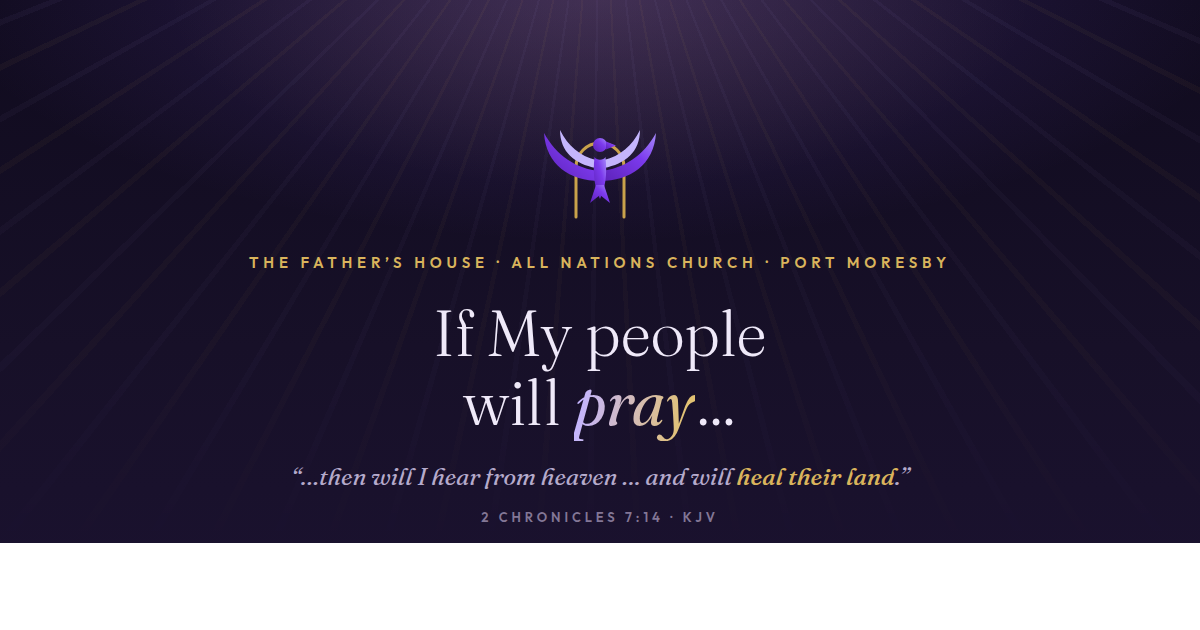
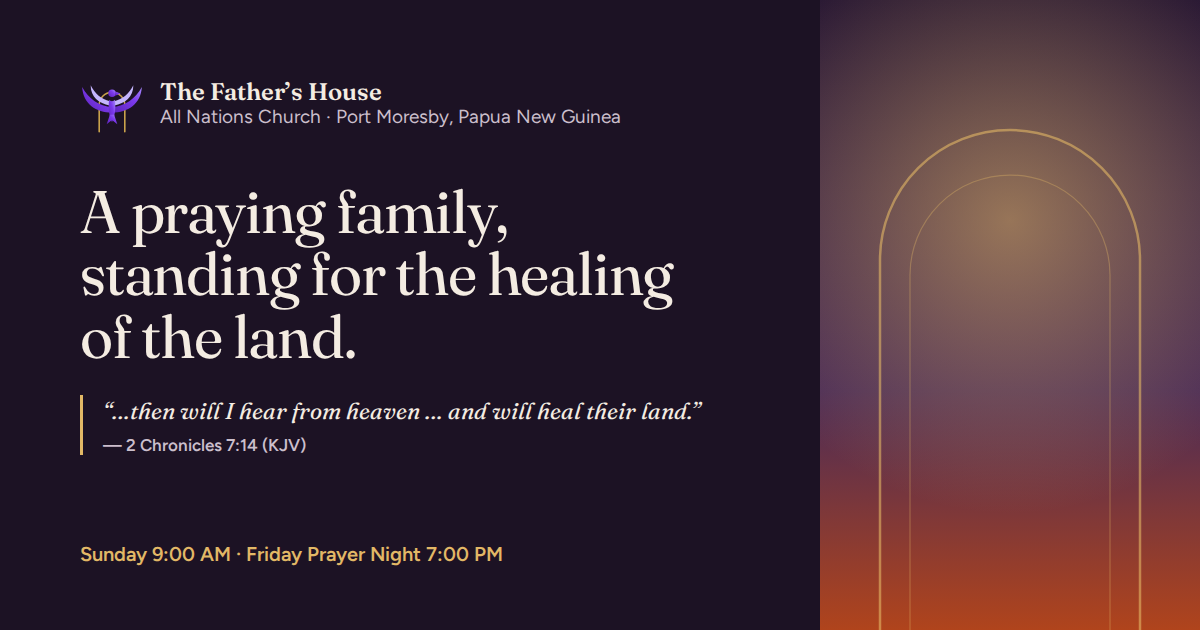
Fix review findings, add contrast check and new share image
- Hero: gatherings card overlaps the photo so both times and the
  countdown sit in the first screen; smaller desktop h1.
- Centre biography dialogs (the global margin reset removed it).
- Stop text overlapping the prayer-night photo band so contrast holds
  for any real photograph; drop the redundant aria-controls.
- Tidy What to expect spacing, footer rule and time wrapping; add an
  indicator to the About disclosure; placeholder labels move to the top.
- tools/contrast.js reads the tokens from style.css and checks 66
  text and UI pairs in light, dark and both night scopes.
- Regenerate og.png in the new design from tools/og.html.

Claude-Session: https://claude.ai/code/session_011K5PkekL3ADqHBqEMYiZhC

diff --git a/assets/css/style.css b/assets/css/style.css
@@ -349,13 +349,14 @@ p a:not([class]), dd a { color: var(--accent); text-underline-offset: 0.2em; }
 @media (min-width: 960px) {
   .hero__grid {
     grid-template-columns: minmax(0, 1.08fr) minmax(0, 0.92fr);
-    grid-template-areas: "head photo" "actions photo" "times photo";
+    grid-template-areas: "head photo" "actions photo";
     column-gap: clamp(2rem, 5vw, 5rem); row-gap: 1.75rem; align-items: start;
   }
   .hero__head { grid-area: head; align-self: end; }
   .hero__actions { grid-area: actions; }
-  .hero__photo { grid-column: 2; grid-row: 1 / 4; aspect-ratio: auto; height: 100%; min-height: 34rem; max-height: 44rem; }
-  .hero__times { grid-column: 2; grid-row: 3; align-self: end; justify-self: start; position: relative; z-index: 1; width: min(27rem, 100%); margin: 0 0 1.5rem -3.5rem; }
+  .hero__photo { grid-column: 2; grid-row: 1 / 3; aspect-ratio: auto; height: 100%; min-height: 36rem; max-height: 46rem; }
+  .hero__times { grid-column: 2; grid-row: 1 / 3; align-self: end; justify-self: start; position: relative; z-index: 1; width: min(27rem, 100%); margin: 0 0 1.75rem -3.5rem; }
+  .hero__title { font-size: clamp(2.375rem, 1.4rem + 3.3vw, 4.25rem); }
 }
 
 /* ---------- Plan your visit ---------- */
@@ -389,7 +390,7 @@ p a:not([class]), dd a { color: var(--accent); text-underline-offset: 0.2em; }
 .expect { display: grid; gap: 1.25rem; margin-top: clamp(2rem, 1.5rem + 2vw, 3.5rem); padding-top: clamp(1.5rem, 1rem + 2vw, 2.5rem); border-top: 1px solid var(--line); }
 .expect__title { font-size: var(--step-3); font-weight: 400; }
 .expect__list { display: grid; gap: 1rem 2.5rem; }
-.expect__list > div { display: grid; grid-template-columns: 7.5rem minmax(0, 1fr); gap: 1rem; }
+.expect__list > div { display: grid; align-content: start; grid-template-columns: 7.5rem minmax(0, 1fr); gap: 1rem; }
 .expect__list dt { font-weight: 600; }
 .expect__list dd { color: var(--fg-soft); }
 @media (min-width: 700px) {
@@ -407,7 +408,10 @@ p a:not([class]), dd a { color: var(--accent); text-underline-offset: 0.2em; }
 .about__text > p:not(.lead) { color: var(--fg-soft); max-width: 40rem; }
 .about__text .lead { margin-bottom: 0.25rem; }
 .more { margin-top: 1rem; max-width: 40rem; color: var(--fg-soft); }
-.more summary { display: inline-flex; min-height: 44px; align-items: center; color: var(--accent); font-weight: 600; cursor: pointer; text-decoration: underline; text-underline-offset: 0.25em; }
+.more summary { list-style: none; display: inline-flex; gap: 0.5rem; min-height: 44px; align-items: center; color: var(--accent); font-weight: 600; cursor: pointer; text-decoration: underline; text-underline-offset: 0.25em; }
+.more summary::-webkit-details-marker { display: none; }
+.more summary::after { content: "+"; font-size: 1.2em; line-height: 1; text-decoration: none; display: inline-block; transition: transform 0.2s; }
+.more[open] summary::after { transform: rotate(45deg); }
 .more[open] summary { margin-bottom: 0.25rem; }
 
 .record { align-self: start; padding: clamp(1.25rem, 1rem + 1.5vw, 2.25rem); border: 1px solid var(--line); border-top: 3px solid var(--accent); border-radius: 4px var(--radius) var(--radius) 4px; background: var(--surface); }
@@ -438,8 +442,8 @@ p a:not([class]), dd a { color: var(--accent); text-underline-offset: 0.2em; }
 
 .why { padding-top: 0; }
 .why__band { position: relative; height: clamp(9rem, 4rem + 24vw, 26rem); border-radius: 0; }
-.why__band::after { content: ""; position: absolute; inset: 0; background: linear-gradient(to bottom, transparent 40%, var(--bg)); }
-.why__inner { position: relative; margin-top: clamp(-4rem, -2rem - 3vw, -2rem); }
+.why__band::after { content: ""; position: absolute; inset: 0; background: linear-gradient(to bottom, transparent 20%, var(--bg) 75%); }
+.why__inner { position: relative; }
 .why__head { margin-bottom: 0; }
 .why .lead { color: var(--fg-soft); }
 
@@ -484,7 +488,7 @@ p a:not([class]), dd a { color: var(--accent); text-underline-offset: 0.2em; }
 }
 
 /* Biography dialogs */
-.bio { width: min(44rem, calc(100% - 2rem)); max-height: min(88dvh, 60rem); padding: 0; border: 0; border-radius: var(--radius-lg); background: var(--surface); color: var(--fg); box-shadow: 0 30px 80px -20px rgba(0, 0, 0, 0.5); }
+.bio { margin: auto; width: min(44rem, calc(100% - 2rem)); max-height: min(88dvh, 60rem); padding: 0; border: 0; border-radius: var(--radius-lg); background: var(--surface); color: var(--fg); box-shadow: 0 30px 80px -20px rgba(0, 0, 0, 0.5); }
 .bio::backdrop { background: rgba(17, 10, 22, 0.66); }
 .bio__inner { position: relative; padding: clamp(1.5rem, 1rem + 3vw, 3rem); }
 .bio__close { position: sticky; top: 0; float: right; margin: -0.5rem -0.5rem 0 0.5rem; background: var(--surface); }
@@ -646,7 +650,8 @@ html:not(.js) .fab { display: none; }
 .footer__nav a:hover { text-decoration: underline; text-underline-offset: 0.2em; }
 .footer__meta p { color: var(--fg-soft); }
 .social { display: flex; gap: 0.5rem; margin-top: 1rem; }
-.footer__legal { display: flex; flex-wrap: wrap; justify-content: space-between; gap: 0.5rem 2rem; margin-top: 2.5rem; padding-top: 1.25rem; border-top: 1px solid var(--line); font-size: var(--step--1); color: var(--fg-soft); }
+.footer__legal { display: flex; flex-wrap: wrap; justify-content: space-between; gap: 0.5rem 2rem; margin-top: 2.5rem; padding-top: 1.25rem; position: relative; font-size: var(--step--1); color: var(--fg-soft); }
+.footer__legal::before { content: ""; position: absolute; top: 0; left: var(--gutter); right: var(--gutter); border-top: 1px solid var(--line); }
 .footer__legal p { margin: 0; }
 @media (min-width: 1024px) {
   .footer__grid { grid-template-columns: 1.3fr 1.5fr 1fr; gap: 3rem; }

diff --git a/tools/contrast.js b/tools/contrast.js
@@ -1,0 +1,111 @@
+#!/usr/bin/env node
+/* WCAG 2.2 contrast check for the design tokens in assets/css/style.css.
+   No dependencies:  node tools/contrast.js
+   Reads the light tokens (:root), the dark theme (:root[data-theme="dark"]),
+   and the .night scope, resolves var() references, and checks every
+   text/background pair the components use, in all four contexts.
+   Exits non-zero if any pair fails. */
+"use strict";
+const fs = require("fs");
+const path = require("path");
+const css = fs.readFileSync(path.join(__dirname, "..", "assets", "css", "style.css"), "utf8");
+
+function block(selector) {
+  const i = css.indexOf(selector + " {");
+  if (i < 0) throw new Error("Missing block " + selector);
+  const body = css.slice(css.indexOf("{", i) + 1, css.indexOf("}", i));
+  const out = {};
+  body.replace(/--([\w-]+):\s*([^;]+);/g, (_, k, v) => { out[k] = v.trim(); });
+  return out;
+}
+const light = block(":root");
+const dark = Object.assign({}, light, block(':root[data-theme="dark"]'));
+const nightMap = block(".night");
+// The dark theme is written twice (system preference and manual toggle); they must match.
+const darkAuto = block(':root:not([data-theme="light"])');
+const darkManual = block(':root[data-theme="dark"]');
+if (JSON.stringify(darkAuto) !== JSON.stringify(darkManual)) {
+  console.error("The two dark-theme blocks in style.css differ. Keep them identical.");
+  process.exit(1);
+}
+
+// Resolve a token to a literal colour, following var() references.
+function resolve(tokens, value) {
+  const m = /^var\(--([\w-]+)\)$/.exec(value);
+  if (!m) return value;
+  if (!(m[1] in tokens)) throw new Error("Unknown token --" + m[1]);
+  return resolve(tokens, tokens[m[1]]);
+}
+// A context's lookup: base theme tokens, optionally with the .night swap.
+function scope(base, isNight) {
+  return (name) => {
+    const v = isNight && name in nightMap ? nightMap[name] : base[name];
+    if (v === undefined) throw new Error("Unknown token --" + name);
+    return resolve(base, v);
+  };
+}
+
+function hex(c) {
+  const m = /^#([0-9a-f]{6})$/i.exec(c);
+  if (!m) return null;
+  return [0, 2, 4].map((i) => parseInt(m[1].substr(i, 2), 16));
+}
+function lum(rgb) {
+  const [r, g, b] = rgb.map((v) => { v /= 255; return v <= 0.03928 ? v / 12.92 : Math.pow((v + 0.055) / 1.055, 2.4); });
+  return 0.2126 * r + 0.7152 * g + 0.0722 * b;
+}
+function ratio(a, b) {
+  const [x, y] = [lum(a), lum(b)].sort((p, q) => q - p);
+  return (x + 0.05) / (y + 0.05);
+}
+
+// [foreground, background, minimum, what it is]
+const TEXT = 4.5, UI = 3;
+const pairs = [
+  ["fg", "bg", TEXT, "body text"],
+  ["fg", "bg-tint", TEXT, "body text on tinted section"],
+  ["fg", "surface", TEXT, "text on cards"],
+  ["fg-soft", "bg", TEXT, "secondary text"],
+  ["fg-soft", "bg-tint", TEXT, "secondary text on tint"],
+  ["fg-soft", "surface", TEXT, "secondary text on cards"],
+  ["accent", "bg", TEXT, "labels, links"],
+  ["accent", "bg-tint", TEXT, "labels, links on tint"],
+  ["accent", "surface", TEXT, "links on cards"],
+  ["error", "bg", TEXT, "form errors"],
+  ["error", "surface", TEXT, "form errors on form card"],
+  ["btn-fg", "btn-bg", TEXT, "primary button"],
+  ["btn-fg", "btn-bg-hover", TEXT, "primary button, hover"],
+  ["focus", "bg", UI, "focus ring"],
+  ["focus", "bg-tint", UI, "focus ring on tint"],
+  ["focus", "surface", UI, "focus ring on cards"],
+  ["line-strong", "bg", UI, "input borders"],
+  ["line-strong", "surface", UI, "input borders on form card"],
+  ["btn-bg", "bg", UI, "primary button edge"]
+];
+const nightPairs = pairs.filter(([f, b]) => b !== "bg-tint" && !f.startsWith("btn") && b !== "btn-bg");
+nightPairs.push(["btn-fg", "btn-bg", TEXT, "primary button"], ["btn-bg", "bg", UI, "primary button edge"]);
+
+const contexts = [
+  ["Light", scope(light, false), pairs],
+  ["Dark", scope(dark, false), pairs],
+  ["Night (light theme)", scope(light, true), nightPairs],
+  ["Night (dark theme)", scope(dark, true), nightPairs]
+];
+
+let fails = 0;
+const rows = [];
+for (const [ctx, get, list] of contexts) {
+  for (const [f, b, min, what] of list) {
+    const fc = get(f), bc = get(b);
+    const r = ratio(hex(fc), hex(bc));
+    const ok = r >= min;
+    if (!ok) fails++;
+    rows.push(`| ${ctx} | ${what} | \`--${f}\` ${fc} | \`--${b}\` ${bc} | ${r.toFixed(2)}:1 | ${min}:1 | ${ok ? "pass" : "FAIL"} |`);
+  }
+}
+console.log("| Context | Use | Foreground | Background | Ratio | Needs | Result |");
+console.log("|---|---|---|---|---|---|---|");
+console.log(rows.join("\n"));
+console.log(`\n${rows.length} pairs checked, ${fails} failing.`);
+console.log(`For reference, the previous design: #837796 on #171028 = ${ratio(hex("#837796"), hex("#171028")).toFixed(2)}:1; #8a691c on #f1eadb = ${ratio(hex("#8a691c"), hex("#f1eadb")).toFixed(2)}:1.`);
+process.exit(fails ? 1 : 0);

diff --git a/index.html b/index.html
@@ -18,13 +18,13 @@
   <meta property="og:image" content="https://n30dyn4m1c.github.io/tfhanc/assets/img/og.png">
   <meta property="og:image:width" content="1200">
   <meta property="og:image:height" content="630">
-  <meta property="og:image:alt" content="The eagle-through-the-door mark of The Father’s House, All Nations Church">
+  <meta property="og:image:alt" content="The Father’s House, All Nations Church: a praying family, standing for the healing of the land. 2 Chronicles 7:14 (KJV)">
   <meta property="og:locale" content="en_GB">
   <meta name="twitter:card" content="summary_large_image">
   <meta name="twitter:title" content="The Father’s House, All Nations Church">
   <meta name="twitter:description" content="A house of prayer in Port Moresby, Papua New Guinea. Sunday 9:00 AM; Friday Breakthrough Prayer Night 7:00 PM.">
   <meta name="twitter:image" content="https://n30dyn4m1c.github.io/tfhanc/assets/img/og.png">
-  <meta name="twitter:image:alt" content="The eagle-through-the-door mark of The Father’s House, All Nations Church">
+  <meta name="twitter:image:alt" content="The Father’s House, All Nations Church: a praying family, standing for the healing of the land. 2 Chronicles 7:14 (KJV)">
 
   <link rel="icon" type="image/svg+xml" href="assets/img/logo.svg">
   <link rel="preload" href="assets/fonts/fraunces-roman.woff2" as="font" type="font/woff2" crossorigin>
@@ -146,7 +146,7 @@
           <svg class="icon icon--sun" aria-hidden="true"><use href="#i-sun"/></svg>
         </button>
         <a class="btn btn--primary btn--small header__cta" href="#visit">Plan your visit</a>
-        <button class="icon-btn menu-toggle" type="button" aria-haspopup="dialog" aria-expanded="false" aria-controls="menu">
+        <button class="icon-btn menu-toggle" type="button" aria-haspopup="dialog" aria-expanded="false">
           <svg class="icon" aria-hidden="true"><use href="#i-menu"/></svg>
           <span class="menu-toggle__text">Menu</span>
         </button>
@@ -282,6 +282,7 @@
           <dl class="expect__list rail" aria-label="What to expect">
             <div>
               <dt>How long</dt>
+              <!-- CONTENT NEEDED: the usual closing time of Breakthrough Prayer Night. -->
               <dd>Sunday Celebration runs from 9:00 AM to 1:30 PM. Breakthrough Prayer Night begins at 7:00 PM.</dd>
             </div>
             <div>
@@ -815,7 +816,7 @@
 
       <div class="footer__meta">
         <h2 class="label footer__heading">Gatherings</h2>
-        <p>Sunday Celebration · 9:00 AM – 1:30 PM<br>Breakthrough Prayer Night · Friday 7:00 PM<br>Taurama Aquatic Centre Lounge<br>Port Moresby, Papua New Guinea</p>
+        <p>Sunday Celebration, <span class="nowrap">9:00 AM – 1:30 PM</span><br>Breakthrough Prayer Night, <span class="nowrap">Friday 7:00 PM</span><br>Taurama Aquatic Centre Lounge<br>Port Moresby, Papua New Guinea</p>
         <ul class="social">
           <li><a class="icon-btn" href="https://facebook.com/tfhanc" target="_blank" rel="noopener" aria-label="Facebook (opens in a new tab)"><svg class="icon" aria-hidden="true"><use href="#i-facebook"/></svg></a></li>
           <li><a class="icon-btn" href="https://www.youtube.com/@tfhanc" target="_blank" rel="noopener" aria-label="YouTube (opens in a new tab)"><svg class="icon" aria-hidden="true"><use href="#i-youtube"/></svg></a></li>

diff --git a/tools/og.html b/tools/og.html
@@ -1,0 +1,29 @@
+<!DOCTYPE html>
+<!-- Source for assets/img/og.png (1200 × 630). Render with tools/render-og.js. -->
+<html lang="en-GB"><head><meta charset="UTF-8"><style>
+@font-face { font-family: "Fraunces"; font-weight: 400 600; src: url("../assets/fonts/fraunces-roman.woff2") format("woff2"); }
+@font-face { font-family: "Fraunces"; font-style: italic; font-weight: 400; src: url("../assets/fonts/fraunces-italic.woff2") format("woff2"); }
+@font-face { font-family: "Figtree"; font-weight: 400 600; src: url("../assets/fonts/figtree.woff2") format("woff2"); }
+* { margin: 0; box-sizing: border-box; }
+html, body { width: 1200px; height: 630px; overflow: hidden; }
+body { background: #1c1224; color: #f4ece2; font-family: "Figtree", sans-serif; display: grid; grid-template-columns: 1fr 380px; }
+.text { padding: 72px 0 64px 80px; display: flex; flex-direction: column; }
+.brand { display: flex; align-items: center; gap: 16px; font: 600 24px/1.15 "Fraunces", serif; }
+.brand img { width: 64px; height: 64px; }
+.brand span span { display: block; font: 400 19px/1.3 "Figtree", sans-serif; color: #cbbfcc; }
+h1 { margin-top: 44px; font: 400 60px/1.04 "Fraunces", serif; letter-spacing: -0.02em; max-width: 640px; }
+blockquote { margin-top: 28px; padding-left: 20px; border-left: 3px solid #e2b866; font: italic 400 23px/1.4 "Fraunces", serif; max-width: 640px; }
+cite { display: block; margin-top: 8px; font: 600 17px "Figtree", sans-serif; font-style: normal; color: #cbbfcc; }
+.times { margin-top: auto; font-size: 20px; color: #e2b866; font-weight: 600; }
+.art { background: linear-gradient(#2a1934, #4a2b57 62%, #b0441c); position: relative; overflow: hidden; }
+.art::before { content: ""; position: absolute; inset: 0; background: radial-gradient(circle at 50% 35%, rgba(226,184,102,.55), transparent 65%); }
+.art svg { position: absolute; left: 50%; bottom: 0; width: 280px; transform: translateX(-50%); }
+</style></head><body>
+<div class="text">
+  <p class="brand"><img src="../assets/img/logo.svg" alt=""><span>The Father’s House <span>All Nations Church · Port Moresby, Papua New Guinea</span></span></p>
+  <h1>A praying family, standing for the healing of the land.</h1>
+  <blockquote>“…then will I hear from heaven … and will heal their land.”<cite>— 2 Chronicles 7:14 (KJV)</cite></blockquote>
+  <p class="times">Sunday 9:00 AM · Friday Prayer Night 7:00 PM</p>
+</div>
+<div class="art" aria-hidden="true"><svg viewBox="0 0 280 520"><path d="M10 520 V150 A130 130 0 0 1 270 150 V520" fill="none" stroke="#e2b866" stroke-width="2.5" stroke-opacity=".6"/><path d="M40 520 V165 A100 100 0 0 1 240 165 V520" fill="none" stroke="#e2b866" stroke-width="1.2" stroke-opacity=".35"/></svg></div>
+</body></html>

diff --git a/tools/render-og.js b/tools/render-og.js
@@ -1,0 +1,15 @@
+#!/usr/bin/env node
+/* Renders tools/og.html to assets/img/og.png at 1200 × 630.
+   Needs Playwright with Chromium available:  node tools/render-og.js */
+"use strict";
+const path = require("path");
+let chromium;
+try { ({ chromium } = require("playwright")); } catch (e) { ({ chromium } = require("/opt/node22/lib/node_modules/playwright")); }
+(async () => {
+  const browser = await chromium.launch();
+  const page = await browser.newPage({ viewport: { width: 1200, height: 630 } });
+  await page.goto("file://" + path.join(__dirname, "og.html"));
+  await page.evaluate(() => document.fonts.ready);
+  await page.screenshot({ path: path.join(__dirname, "..", "assets", "img", "og.png") });
+  await browser.close();
+})();

diff --git a/assets/img/placeholders/generate.py b/assets/img/placeholders/generate.py
@@ -24,7 +24,7 @@ def svg(name, w, h, label, body, glow=(0.72, 0.9)):
 </defs>
 <rect width="{w}" height="{h}" fill="url(#g)"/><rect width="{w}" height="{h}" fill="url(#l)"/>
 {body}
-<text x="{0.05*w:.0f}" y="{h-0.05*h:.0f}" font-family="system-ui, sans-serif" font-size="{max(14, round(min(w,h)*0.032))}" fill="{SAND}" fill-opacity=".82">Photograph to come · {label}</text>
+<text x="{0.05*w:.0f}" y="{0.05*h + min(w,h)*0.032:.0f}" font-family="system-ui, sans-serif" font-size="{max(14, round(min(w,h)*0.032))}" fill="{SAND}" fill-opacity=".82">Photograph to come · {label}</text>
 </svg>
 '''
     with open(os.path.join(OUT, name), "w") as f:
